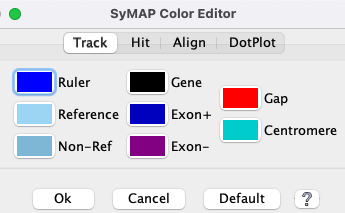
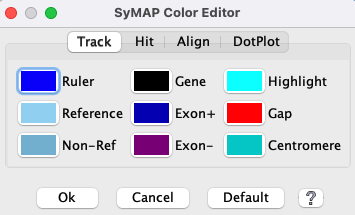
v5.4.4
A bug fix in Query Gene# search and a few small enhancements.

diff --git a/docs/Release.html b/docs/Release.html
@@ -73,6 +73,31 @@ and different versions of Java.</font>
 <tr><td><a href="#v519">v5.1.9</a><td>(26-Oct-22)<td>Gene# assignment and <a href="UserGuide.html#view2D"> 2D gene placement</a>
 </table>
 
+<a id="v544"></a>
+<h3>Release: v5.4.4 (18-July-23)</h3>
+<ul>
+<li><ttb>Query</ttb>
+<ul>
+<li><font color=red>Bug fix for v5.4.3</font> The extension to make the <ttl>Gene#</ttl> search work with
+suffixes (e.g. 5.a) had a bug when used without suffixes.
+</ul>
+<li><ttb>Chromosome Explorer 2D</ttb>
+<ul>
+<li><ttl>Sequence Filter</ttl>: There is a new option for highlighting a gene called <ttl>Popup</ttl>;
+when this option is on, every time a gene popup window is created, the gene stays selected. The filter popup has
+reduced number of options.
+See <a href="UserGuide.html#popup">Popups</a> and <a href="UserGuide.html#sequence_filter">Sequence Filters</a>.
+<li>The highlight <ttl>Hit popup</ttl> and <ttl>Gene popup</ttl> options are on by default.
+</ul>
+<li>Developers
+<ul>
+<li><small>Remove CloseupListener and DrawingPanelListener. Remove
+DrawingPanelData (merge with DrawingPanel). Move TextData from util to sequence directory.  Moved frame SyMAP2d,
+Frame2D, FSized2d, ControlPanel to drawingpanel because used exclusively by 2d. Rename AlignMain to AlgSynMain.
+</small>
+</ul>
+</ul>
+
 <a id="v543"></a>
 <h3>Release: v5.4.3 (12-July-23)</h3>
 There are numerous tiny changes, fixes, and two small new features.
@@ -93,7 +118,7 @@ Allow blank lines on annotation input. Add "Prefix" on manager summary.</small>
 <ul>
 <li><ttl>Hit Filter</ttl>: There is a new option for highlighting a hit-wire called <ttl>Popup</ttl>;
 when this option is on, every time a hit-wire popup window is created, the hit-wire stays selected.
-See <a href="UserGuide.html#popups">Popups</a> and <a href="UserGuide.html#hitfilter">Hit Filters</a>.
+See <a href="UserGuide.html#popup">Popups</a> and <a href="UserGuide.html#hitfilter">Hit Filters</a>.
 <li>When more than two sequence tracks are shown, the middle one now knows the hits on both
 sides and can list them in the <ttl>Gene Popup</ttl> and <ttl>Align (Max 30kb)</ttl>.
 <li><small><i>Minor</i>: The <ttl>Sequence Filter</ttl> options of <ttl>Show Text</ttl> now shows the
@@ -156,8 +181,8 @@ If a second block was selected for 2D, the genes would not be shown; with this f
 </ul>
 <li>Developer:
 <ul>
-<li>The Abstract Filter file was removed and the Hit and Sequence filter codes rewritten without it.
-<li>Changed number of tracks from 100 to 30.
+<li><small>The Abstract Filter file was removed and the Hit and Sequence filter codes rewritten without it.
+Changed number of tracks from 100 to 30.</small>
 </ul>
 </ul>
 
@@ -209,9 +234,9 @@ when the columns are being shown.
 
 <li>Developer:
 <ul>
-<li>The MySQL connection has been rewritten to be more straight-forward and confirm that connections
+<li><small>The MySQL connection has been rewritten to be more straight-forward and confirm that connections
 are correctly closed. There is a new dedicated connection for any each of the displays (e.g. DotPlot, 2D, etc).
-This removed 4 java files and replaced one.
+This removed 4 java files and replaced one.</small>
 </ul>
 </ul>
 
@@ -271,9 +296,12 @@ removed; any comma's in the descriptions are replaced with ";".
 
 <li>The <ttl>Show</ttl> was disabled for singles; it has been enabled.
 </ul>
-<li><ttb>Chromosome Explorer</ttb>: The text of the Hit popup has been slightly changed and the Subhit
+<li><ttb>Chromosome Explorer</ttb>:
+<ul><li>The text of the Hit popup has been slightly changed and the Subhit
 coverage has been added (see <a href="UserGuide.html#popup" class="ext" target="_blank">Hit Popup</a>).
-<li>Developer: the Hit assignment algorithm has been restructured.
+</ul>
+<li>Developer:
+<ul><li><small>The Hit assignment algorithm has been restructured.</small></ul>
 </ul>
 <a id="v535"></a>
 <h3>Release: v5.3.5 (3-Mar-23)</h3>
@@ -300,10 +328,12 @@ indicating that it continues. See <a href="UserGuide.html#base" class="ext" targ
 <li>The color icons now has Exon+ and Exon-, where the default colors correspond to the 2d display.
 <li>Bug fix: when there were overlapping genes, the exons could be wrong for one of them.
 </ul>
-<li>Developer: The Logger interface has been removed.
+<li>Developer:
+<ul><li><small>The Logger interface has been removed.
 In the ManagerFrame, the load methods have been moved to LoadProj, and the remove methods have
 been moved to RemoveProj. The AnchorsMain methods has been reworked for clarity, but provide same answer.
 The debug statements were cleaned up.
+</small></ul>
 </ul>
 
 <a id="v534"></a>
@@ -325,10 +355,12 @@ The parameters used to only be applied if A&S was run right after setting them; 
 maintained across symap sessions.
 <p>
 <li>
-Developers: There has been a lot of renaming and restructuring. For example, the symap.projectmanager.common package has been shortened to symap.manager,
+Developers:
+<ul><li><small>There has been a lot of renaming and restructuring. For example, the symap.projectmanager.common package has been shortened to symap.manager,
 and a few of the classes in this package were renamed for clarity. All ChrExp and 2d display
 classes have been renamed and moved to the frame package. A database package has been
 created for the database specific classes. The project and pair parameter code has been redesigned.
+</small></ul>
 </ul>
 
 <a id="v533"></a>

diff --git a/docs/UserGuide.html b/docs/UserGuide.html
@@ -101,7 +101,8 @@ the <a href="SystemGuide.html" class="ext"  target="_blank">System Guide</a>.
 			<li><a href="#view2D">View a region</a>
 			<li><a href="#info">Gene and hit information</a>
 			<li><a href="#control">Control panel and navigation</a> <!-- # ref in code -->
-			<li><a href="#sequence_filter">Filters</a>
+			<li><a href="#sequence_filter">Sequence Filter</a>,&nbsp;
+			<a href="#hitfilter">Hit Filter</a>
 			<li><a href="#base">Align (Base View)</a>
 			</ul>
 		</ul>
@@ -785,18 +786,26 @@ and belong to 642 collinear sets.
 
 Select <ttb>Sequence Filter</ttb> button above the sequence track to change the display for the
 respective chromosome. If the sequence track does not have a given annotation (e.g. Gaps), then that item
-will be un-selectable. All checked options occur immediately; a checked box enables the option.
+will be un-selectable. All checked options occur immediately; coordinate changes occur on <ttl>Apply</ttl>.
+<p>
+<table class="ty">
+<tr><td><ttl>Flip sequence</ttl><td>
+Reverses the orientation of the sequence track.
+<tr><td><ttl>Highlight gene popup</ttl>
+<td> Highlight the gene when its <a href="#popup">Information Popup</a> is displayed.
+The highlight color can be changed with the <a href="#image">Color Wheel</a>.
+</table>
 
 <table>
 <tr><td>
 <table class="ty">
-<tr><td><ttl>Flip sequence</ttl><td> Reverses the orientation of the sequence track.
 <tr><td colspan="2"><ttx>Show Graphics</ttx>
-<tr><td><ttl>Ruler</ttl><td> Display of the sequence ruler along the right side
-of the sequence.
-<tr><td style="vertical-align: text-top;"><ttl>Annotation</ttl><td> Display of the annotation descriptions along the
-right side of sequence. NOTE: this only works if you are zoomed in close enough that they can clearly
-be displayed.
+<tr><td><ttl>Ruler</ttl>
+<td>Display of the sequence ruler along the right side of the sequence.
+<tr><td style="vertical-align: text-top;"><ttl>Annotation</ttl>
+<td> Display of the annotation descriptions along the right side of sequence
+(see <a href="img/2d-closeup2.png" alt="2d-closeup">example</a>).
+NOTE: this only works if you are zoomed in close enough that they can clearly be displayed.
 <tr><td><ttl>Genes</ttl><td> Display of gene/exon annotations along the sequence.
 <tr><td style="vertical-align: text-top;"><ttl>Gene delimiter</ttl><td> When the zoom is close enough to view the exons, a black line will
 be drawn over the top end of each gene. This helps delimit genes that do not overlap (so are not staggered),
@@ -831,15 +840,16 @@ The units of the values entered can be selected from the accompanying drop down 
 </table>
 
 <table class="tx">
-<tr><td>A subset of the filters are available
-<br>by right clicking in the empty space
-<br>of the chromosome rectangle.
+<tr><td>A subset of the filters are available by right clicking in the empty space
+of the chromosome rectangle, as shown on the right.
+<p>&nbsp;<p>During a <ttl>Chromosome Explorer</ttl> session,
+<ttl>Sequence Filters</ttl> are reset to defaults between
+different <ttl>2D</ttl> displays.
 <td>
 <a href="img/seqFilterPopup.png">
-	<img src="img/seqFilterPopup.png" alt="sequence filter popup" style="border: 1px solid black; width: 120px"></a>
+	<img src="img/seqFilterPopup.png" alt="sequence filter popup" style="border: 1px solid black; width: 180px"></a>
 </table>
-During a <ttl>Chromosome Explorer</ttl> session, <ttl>Sequence Filters</ttl> are reset to defaults between
-different <ttl>Dot Plot</ttl> displays.
+
 <!----------------------------------------------------------->
 <!------------->
 <a id="hitfilter"></a> <!-- # ref in code -->
@@ -870,14 +880,20 @@ conjunction with any of the <ttl>Show</ttl> options.
 	<img src="img/hitfilterS.png" alt="hitfilterS" style="border: 1px solid black; width: 300px"></a>
 </table>
 
-
 <p>When blocks or collinear sets are highlighted, subsequent blocks/sets will have an alternating color relative
 to one chromosome of the pair.
 
-<p>A subset of the highlight filters are available by right clicking in the hit white space.
+<table class="tx">
+<tr>
+<td>A subset of the highlight filters are available by right clicking in the hit white space,
+as shown on the right.
 
-<p>During a <ttl>Chromosome Explorer</ttl> session, any <ttl>Hit Filter</ttl> settings will remain set between
-different <ttl>Dot Plot</ttl> displays.
+<p>&nbsp;<p>During a <ttl>Chromosome Explorer</ttl> session, any <ttl>Hit Filter</ttl> settings will remain set between
+different <ttl>2D</ttl> displays.
+<td>
+<a href="img/hitFilterPopup.png">
+	<img src="img/hitFilterPopup.png" alt="hit filter popup" style="border: 1px solid black; width: 180px"></a>
+</table>
 
 <!-------------------------------------------------------------------->
 <a id="ex2d"></a>

diff --git a/docs/index.html b/docs/index.html
@@ -66,7 +66,7 @@ detecting, displaying, and querying syntenic relationships between sequenced gen
 <br><img src="./img/bullet_blue_small.gif" alt="">&nbsp;It can align a draft genome to a fully sequenced genome
 (see <a href="./peach.html">Peach</a>), but not draft-to-draft.
 
-<p><img src="./img/bullet_blue_small.gif" alt="">&nbsp;Latest SyMAP release: v5.4.3 (12-July-2023), see <a href="./Release.html">Release Notes</a>.
+<p><img src="./img/bullet_blue_small.gif" alt="">&nbsp;Latest SyMAP release: v5.4.4 (18-July-2023), see <a href="./Release.html">Release Notes</a>.
 
 </div>
 <p>
